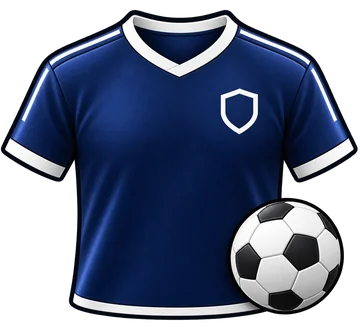
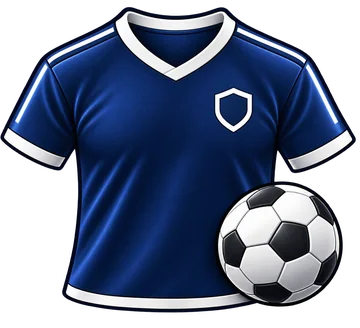
Reemplazar camisetas navy de trofeo/pelota (equipo 1) por el color correcto
El usuario generó las 2 imágenes que faltaban en el navy real (antes se
usaba un azul más claro como placeholder temporal). Confirmado por
muestreo de píxeles que ahora combina con el resto de la camiseta del
equipo 1. Solo assets — sin cambios de lógica.

Claude-Session: https://claude.ai/code/session_01Sbn7ZygJgP5ewt2B6X3pza

Changed region(s): [[0.0, 0.0, 1.0, 0.9756]]

diff --git a/src/app/eventos/[eventId]/Jersey.tsx b/src/app/eventos/[eventId]/Jersey.tsx
@@ -18,14 +18,10 @@ const JERSEY_SRC: Record<JerseyVariant, string> = {
   gk2: "/futbol/jersey-gk2.webp",
 };
 
-// Camisetas con trofeo/pelota superpuestos (mismas 8 imágenes que el
-// usuario generó junto con las 4 limpias, en la misma tanda) para marcar
-// MVP/goleador en "Ver equipos" en vez de un emoji ⭐/⚽ al lado de la
-// camiseta — reemplaza la camiseta entera, no superpone nada.
-// team1-trophy/ball: placeholder temporal en un azul más claro que el
-// navy real (el usuario no generó esa combinación en el color correcto;
-// va a mandar las 2 que faltan y ahí se reemplazan estos 2 archivos sin
-// tocar código).
+// Camisetas con trofeo/pelota superpuestos (mismas 10 imágenes que el
+// usuario generó junto con las 4 limpias) para marcar MVP/goleador en
+// "Ver equipos" en vez de un emoji ⭐/⚽ al lado de la camiseta —
+// reemplaza la camiseta entera, no superpone nada.
 const JERSEY_SRC_MVP: Record<JerseyVariant, string> = {
   team1: "/futbol/jersey-team1-trophy.webp",
   team2: "/futbol/jersey-team2-trophy.webp",

diff --git a/specs/015-armar-equipos-futbol.md b/specs/015-armar-equipos-futbol.md
@@ -279,6 +279,10 @@ Puntos que el SQL no explica por sí solo:
 
 ## 8. Changelog
 
+- 2026-09-29: el usuario generó las 2 camisetas navy (trofeo/pelota) de
+  equipo 1 que faltaban en el color correcto — se reemplazan
+  `jersey-team1-trophy.webp`/`jersey-team1-ball.webp` (antes en un azul
+  placeholder más claro, ver entrada anterior) sin tocar código.
 - 2026-09-29: tres ajustes a pedido del usuario sobre la vista gráfica
   recién implementada. (a) Los badges de MVP (⭐) y goleador (⚽) dejan de
   ser un emoji al lado de la camiseta — el usuario aclaró que, de las 13
@@ -288,10 +292,7 @@ Puntos que el SQL no explica por sí solo:
   un prop opcional `badge?: "mvp" | "goleador"` que cambia la camiseta
   entera por la versión con trofeo/pelota (si es MVP y goleador a la
   vez, gana MVP); la fila de emoji reservada arriba de la camiseta se
-  elimina. Pendiente: la camiseta de trofeo/pelota del equipo 1 (navy)
-  usa un azul más claro como placeholder temporal — el usuario no generó
-  esa combinación en el color correcto y va a mandar las 2 que faltan
-  (se reemplazan 2 archivos, sin tocar código). (b) Cuando queda un solo
+  elimina. (b) Cuando queda un solo
   defensor centrado (misma columna x=50% que el arquero), su nombre
   quedaba pegado/tapando el del arquero — se agrega `defYSingle` en
   `PITCH_POSITIONS`, un Y más alejado del arco propio que se usa solo en
